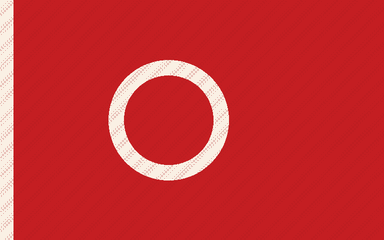
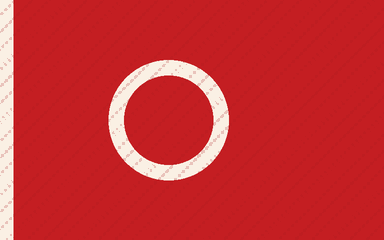
README for the five worlds; tune Frostline and Emberworks; skip list hook
- README: the worlds, random mazes, graphics qualities, materials and credits.
- Frostline: a higher sun and more exposure; Emberworks: a little more sky.
- Flag cloth: a finer, quieter weave.
- conftest: tests listed in tests/stock_content.txt (Fio's own tests that need
  the stock content Levitate! does not ship) are skipped with the reason.

Claude-Session: https://claude.ai/code/session_01HEx4DvS45K22dh7fTuNhLF

diff --git a/conftest.py b/conftest.py
@@ -98,6 +98,40 @@ def pytest_collection_modifyitems(config, items):
         for item in items:
             if keyword in item.keywords:
                 item.add_marker(skip)
+    _skip_stock_content_tests(config, items)
+
+
+def _skip_stock_content_tests(config, items):
+    """Skip the tests of Fio's own suite that need Fio's stock content.
+
+    Levitate! ships its own assets and none of Fio's sample maps, sounds,
+    models, monster and weapon sprites or textures. The tests that load that
+    content are listed in ``tests/stock_content.txt`` (one node id, or a
+    whole file, per line) and skipped with the reason, rather than left
+    failing or deleted: they are right about the engine and run again
+    wherever the content is restored."""
+    listed = os.path.join(os.path.dirname(os.path.abspath(__file__)),
+                          "tests", "stock_content.txt")
+    try:
+        with open(listed, encoding="utf-8") as handle:
+            wanted = {line.strip() for line in handle
+                      if line.strip() and not line.startswith("#")}
+    except OSError:
+        return
+    if not wanted:
+        return
+    skip = pytest.mark.skip(
+        reason="needs Fio's stock content, which Levitate! does not ship "
+               "(tests/stock_content.txt)")
+    root = str(config.rootpath)
+    for item in items:
+        node = item.nodeid
+        if os.path.isabs(node) and node.startswith(root):
+            node = os.path.relpath(node, root)
+        node = node.replace(os.sep, "/")
+        base = node.split("[", 1)[0]
+        if node in wanted or base in wanted or node.split("::", 1)[0] in wanted:
+            item.add_marker(skip)
 
 
 # ---------------------------------------------------------------------------

diff --git a/game/graphics.py b/game/graphics.py
@@ -76,23 +76,23 @@ THEMES = {
         bloom=0.09, sun_shafts=0.32),
     # Frostline: high country in deep snow; a low, clear winter sun.
     "frost": dict(
-        sun_azimuth=236.0, sun_elevation=24.0, sun_intensity=3.6,
+        sun_azimuth=236.0, sun_elevation=31.0, sun_intensity=3.6,
         sun_color=(1.0, 0.90, 0.76),
         turbidity=2.0, rayleigh=1.1, mie=0.003, sky_intensity=0.90,
         cloud_cover=0.30, cloud_softness=0.30, cloud_shadows=0.35, wind=(22.0, 8.0),
         ground_color=(0.62, 0.66, 0.72), haze=0.00007,
-        exposure=0.70, saturation=1.0, contrast=1.07, tint=(0.97, 1.0, 1.05),
+        exposure=0.80, saturation=1.0, contrast=1.07, tint=(0.97, 1.0, 1.05),
         bloom=0.13, sun_shafts=0.42),
     # Emberworks: a foundry at night. The "sun" is the moon; the light that
     # matters is the lamps'.
     "ember": dict(
         sun_azimuth=64.0, sun_elevation=38.0, sun_intensity=0.42,
         sun_color=(0.62, 0.74, 1.0), sun_disc=26.0,
-        turbidity=2.2, rayleigh=1.0, mie=0.004, sky_intensity=0.045,
+        turbidity=2.2, rayleigh=1.0, mie=0.004, sky_intensity=0.06,
         cloud_cover=0.45, cloud_softness=0.30, cloud_shadows=0.3, cloud_brightness=1.6,
         wind=(16.0, 10.0), ground_color=(0.05, 0.05, 0.06), haze=0.00010,
         point_light_gain=4.2, emissive_gain=6.0, roughness=0.6,
-        exposure=1.55, saturation=1.10, contrast=1.08, tint=(1.0, 0.99, 1.02),
+        exposure=1.7, saturation=1.10, contrast=1.08, tint=(1.0, 0.99, 1.02),
         bloom=0.22, sun_shafts=0.0, vignette=0.32),
 }
 DEFAULT_THEME = "slate"

diff --git a/game/tools/make_models.py b/game/tools/make_models.py
@@ -208,13 +208,13 @@ def make_flag(team):
     pixels = weave.load()
     for y in range(h):
         for x in range(w):
-            pixels[x, y] = int(150 + 50 * math.sin(x * 1.6) * math.sin(y * 1.6)
+            pixels[x, y] = int(150 + 22 * math.sin(x * 0.8) * math.sin(y * 0.8)
                                + 30 * math.sin((x + y) * 0.35))
     shaded = Image.composite(image, Image.new("RGB", (w, h), tuple(int(c * 0.86) for c in cloth)),
                              weave.point(lambda v: 255 if v > 120 else 150))
     image = Image.blend(image, shaded, 0.5)
     _save(image, f"flag_{team}_cloth.png")
-    _save(_normal_map(weave, strength=1.6), f"flag_{team}_cloth_n.png")
+    _save(_normal_map(weave, strength=1.0), f"flag_{team}_cloth_n.png")
     material = Image.new("RGBA", (w, h), (255, 220, 0, 255))        # AO, roughness, metal, no glow
     _save(material, f"flag_{team}_cloth_m.png")
 

diff --git a/README.md b/README.md
@@ -13,9 +13,9 @@ Fio is the engine powering a total conversion here: Levitate! is built in and
 always on, not an optional plugin. The editor that builds the mazes is one
 click away in the launcher.
 
-> **Status: block-out.** The three mazes are playable block-outs with the
-> full rule set for a solo time trial. Rival hovercraft (bots), the
-> barrier/jammer effects on rivals, and sound are next.
+> **Status.** Five worlds, random mazes and the full rule set for a solo
+> time trial, drawn with a sun, a sky, shadows and photo-scanned materials.
+> Sound and rival hovercraft (bots) are next.
 
 ## Play it
 
@@ -35,9 +35,11 @@ The launcher offers **PLAY**, **EDIT** or **Quit**:
 * **EDIT** opens the full Fio editor. Levitate!'s entities are under
   **Levitate!** in the entity menus.
 
-Display mode, resolution, vsync, high-DPI, **HUD size** (Compact, the default, or
-the original full-width Large; also in the pause menu) and the last maze are written back to
-`settings.ini`, the same keys the editor's Settings window uses.
+The launcher also chooses the **maze** (any of the five worlds, or **Random
+maze**: a new one every time), the **graphics** quality (below) and the **HUD
+size** (Compact, the default, or the original full-width Large; also in the
+pause menu). Everything is written back to `settings.ini`, the same keys the
+editor's Settings window uses.
 
 ### Controls
 
@@ -53,27 +55,33 @@ the original full-width Large; also in the pause menu) and the last maze are wri
 Each maze has three **red** (home) and three **blue** (rival) flags. Glide
 over a rival flag to take it; take all three before the clock runs out.
 
-| Pad | | Power-up orb | |
+| Pad | | Power cell | |
 |---|---|---|---|
 | <img src="assets/textures/levitate/pad_spring.png" width="40"> Spring | Launches the craft up, onto ledges | <img src="game/assets/icons/shield.png" width="32"> Shield | 12 s of protection |
 | <img src="assets/textures/levitate/pad_boost.png" width="40"> Boost | A burst of speed along your heading | <img src="game/assets/icons/phantom.png" width="32"> Phantom | 10 s unseen by rivals |
 | <img src="assets/textures/levitate/pad_barrier.png" width="40"> Barrier | Loads a barrier into a free slot | <img src="game/assets/icons/barrier.png" width="32"> Barrier · <img src="game/assets/icons/jammer.png" width="32"> Jammer | Act on rival craft (with the bots) |
 
-Orbs fill the dashboard's three **system** slots; use them with **1–3**.
+Cells fill the dashboard's three **system** slots; use them with **1–3**.
 
-## The mazes
+## The worlds
 
-| | Size | Theme | Clock |
+Each maze is a world of its own: its own walls and floor, its own sky and
+light, and its own skyline rising beyond the walls.
+
+| | Size | World | Clock |
 |---|---|---|---|
-| **Breakwater** | 8 × 8 | Slate | 4:00 |
-| **Sandglass** | 10 × 10 | Sand | 5:00 |
-| **Mossgarden** | 11 × 9 | Moss | 5:30 |
+| **Breakwater** | 8 × 8 | A harbour wall: board-formed concrete on cracked asphalt, a bright blustery afternoon, a lighthouse over the wall | 4:00 |
+| **Sandglass** | 10 × 10 | Desert ruins: sandstone blocks on gravelly sand, a low golden sun, obelisks and stepped temples | 5:00 |
+| **Mossgarden** | 11 × 9 | An old walled garden: mossy brick on moss-jointed cobbles, a fresh morning under broken cloud | 5:30 |
+| **Frostline** | 12 × 10 | High country: dry-stone walls in deep snow, a clear winter sun, crags all round | 6:00 |
+| **Emberworks** | 12 × 11 | A foundry at night: rusted iron over tread plate, lamps on the piers throwing shadows, moonlight | 6:30 |
 
-All three are original layouts generated by `game/tools/make_mazes.py` from
-fixed seeds. The script carves a maze, opens loops and plazas for racing, then
-places flags, pads, ledges, orbs and lights. `GEOMETRY_SCALE` (1.5) sizes the
-geometry (corridors, walls, floor, ledges) without changing pads, orbs, flags
-or lights. Tune it or `MAZES` in that file and run:
+All five are original layouts generated by `game/tools/make_mazes.py` from
+fixed seeds. The script carves a maze, opens loops and plazas for racing,
+places flags, pads, ledges and power cells, then builds the world round it:
+piers where walls meet, coping along their tops, a glow at every pad, cell and
+flag, lamps where the world is dark, and scenery outside. Every face is mapped
+at its material's real size. Tune `MAZES` and `WORLDS` in that file and run:
 
 ```bash
 python -m game.tools.make_mazes       # -> maps/levitate/*.json
@@ -81,20 +89,63 @@ python -m game.tools.make_mazes       # -> maps/levitate/*.json
 
 Each maze is an ordinary Fio map, so you can open it in EDIT and keep
 building by hand. The match needs one **Maze Rules** entity (`levitaterules`)
-holding the title, clock and handling (friction, acceleration, turn rate,
-wall bounce).
+holding the title, clock, world (`theme`) and handling (friction,
+acceleration, turn rate, wall bounce).
 
-## Art
+### Random mazes
 
-Everything Levitate! draws is original and generated in code by
-`game/tools/make_art.py`. It covers the cockpit dashboard (speedometer, flag
-tallies, CRT radar, system slots, LED clock, shield bar), icons, flag and orb
-sprites, wall, floor and pad textures, the app icon, the splash and the
-launcher banner.
+`game/random_maze.py` makes a maze nobody has played: any world, any size
+from 5 × 5 to 16 × 16, as open as you like, from a seed.
+
+* **Launcher ▸ Maze ▸ Random maze** builds a new one each time PLAY is pressed.
+* **EDIT ▸ Tools ▸ Random Maze Generator…** is Fio's random level generator,
+  now making Levitate! mazes: choose the world, size, openness, plazas, ledges,
+  clock and seed, and Generate. A LevelChanger with *Generate level* on sends
+  the player to a fresh maze the same way.
+* `python tools/procedural_map_gen.py out.json --world frost --cols 10 --rows 8`
+
+## Graphics
+
+A match is drawn with Fio's **environment** renderer (added for Levitate!,
+off everywhere else, so the editor and Fio's stock look are unchanged):
+
+* a **sun** with a filtered shadow map, moving **cloud shadows**, and
+  point-light shadows from lamps;
+* a **sky** computed each frame (an analytic atmosphere under drifting cloud),
+  which also lights the scene and is what smooth surfaces reflect;
+* **physically based surfaces**: GGX specular, normal maps, parallax occlusion
+  mapping, roughness / metalness / ambient-occlusion maps, emissive pads;
+* an **HDR finish**: ambient occlusion, screen-space reflections, bloom, light
+  shafts, ACES tone mapping, grading and FXAA.
+
+`[Renderer] graphics` in `settings.ini` (the launcher's **Graphics**) sets how
+much of that runs: `ultra`, `high` (default), `medium`, `low`, or `classic` --
+Fio's plain renderer with the mazes' fill lights, for machines that cannot
+afford the rest. Each world's look is a few lines in `game/graphics.py`.
+
+## Art and materials
+
+The **walls, floors, coping and metal** are photo-scanned PBR materials from
+[Poly Haven](https://polyhaven.com) (CC0), fetched by
+`game/tools/fetch_textures.py` and credited in
+[`assets/textures/levitate/CREDITS.md`](assets/textures/levitate/CREDITS.md).
+
+Everything else Levitate! draws is original and generated in code:
+
+| | |
+|---|---|
+| `game/tools/make_art.py` | The logo (the hovercraft), app icon, splash and launcher banner, the cockpit dashboard, icons, hovercraft sprites |
+| `game/tools/make_models.py` | The flags (pole, base, rippling cloth) and the power cells, as OBJ models with their maps |
+| `game/tools/make_pads.py` | The pad plates: base colour, normal, roughness, and an emblem that glows |
 
 ```bash
 python -m game.tools.make_art
+python -m game.tools.make_models
+python -m game.tools.make_pads
+python -m game.tools.fetch_textures     # needs the network; the files are committed
 ```
+
+The launcher is 1990s synthwave on blacklight bowling-alley carpet.
 
 ## Layout
 
@@ -102,7 +153,9 @@ python -m game.tools.make_art
 |---|---|
 | `game/` | The game layer: `install()`, the launcher, the match host, hover handling, HUD |
 | `game/ui/launcher.py` | MiniWind's launcher, rebranded, with a maze picker |
-| `game/host.py` | Rules, flags, pads, orbs and the HUD hook (a Fio *built-in game*) |
+| `game/host.py` | Rules, flags, pads, cells, the match's lighting and the HUD hook (a Fio *built-in game*) |
+| `game/graphics.py` | The look of each world and the graphics qualities |
+| `game/random_maze.py` | Random mazes: settings, the maze, the launcher's entry |
 | `game/hover.py` | Glide, steering and wall bounce on top of Fio's player physics |
 | `game/ui/hud.py`, `hud_layout.py` | The cockpit HUD, painted through `render.overlay` |
 | `maps/levitate/` | The mazes |
@@ -114,6 +167,18 @@ python -m game.tools.make_art
   plugins, and a launch straight into kiosk mode with the editor built
   dormant. Ported from MiniWind and adapted to 3.5.1.0's settings file and
   loading bar.
+* `engine/renderer/forward/environment.py`, `surface.py`, `postfx.py`: the
+  environment renderer described under *Graphics*. It is opt-in
+  (`renderer.environment.enabled`), adds the physically based path to the lit
+  shaders by rewriting them at compile time, and leaves `engine/shaders.py`
+  as it was but for one fix. A texture gains companion maps by having
+  `<name>_n`, `<name>_h`, `<name>_m` files beside it; OBJ materials may carry
+  `Ke`, `Pr` and `Pm`.
+* `editor/procedural_generator.py`: the random level generator makes
+  Levitate! mazes.
+* Fio's stock content (sample maps, sounds, models, monster and weapon
+  sprites, textures) is not shipped; the tests of Fio's own suite that need
+  it are skipped (`tests/stock_content.txt`).
 * `editor/main_window.py`: `MainWindow(dormant=)`, `begin_dormant_launch`,
   `wake_editor`, `_hide_editor_chrome`. In a game launch, Quit from the pause
   menu goes to the desktop, and `[Startup] allow_editor` controls whether F12
@@ -122,10 +187,12 @@ python -m game.tools.make_art
 ## Tests
 
 ```bash
-QT_QPA_PLATFORM=offscreen python -m pytest game/tests -q
+xvfb-run -a python -m pytest game/tests -q      # or on any machine with a display
 ```
 
 The tests cover every maze loading and playing on the real engine, the craft
 gliding and bouncing off walls, flags being taken and winning, springs and
-orbs, and the launcher's maze list. Fio's own suite still runs; see
+cells, each world's look and materials, the match switching the lighting on
+and off, random mazes in every world and size, the repurposed generator, and
+the launcher. Fio's own suite still runs; see
 [docs/FIO_README.md](docs/FIO_README.md) for the engine.
